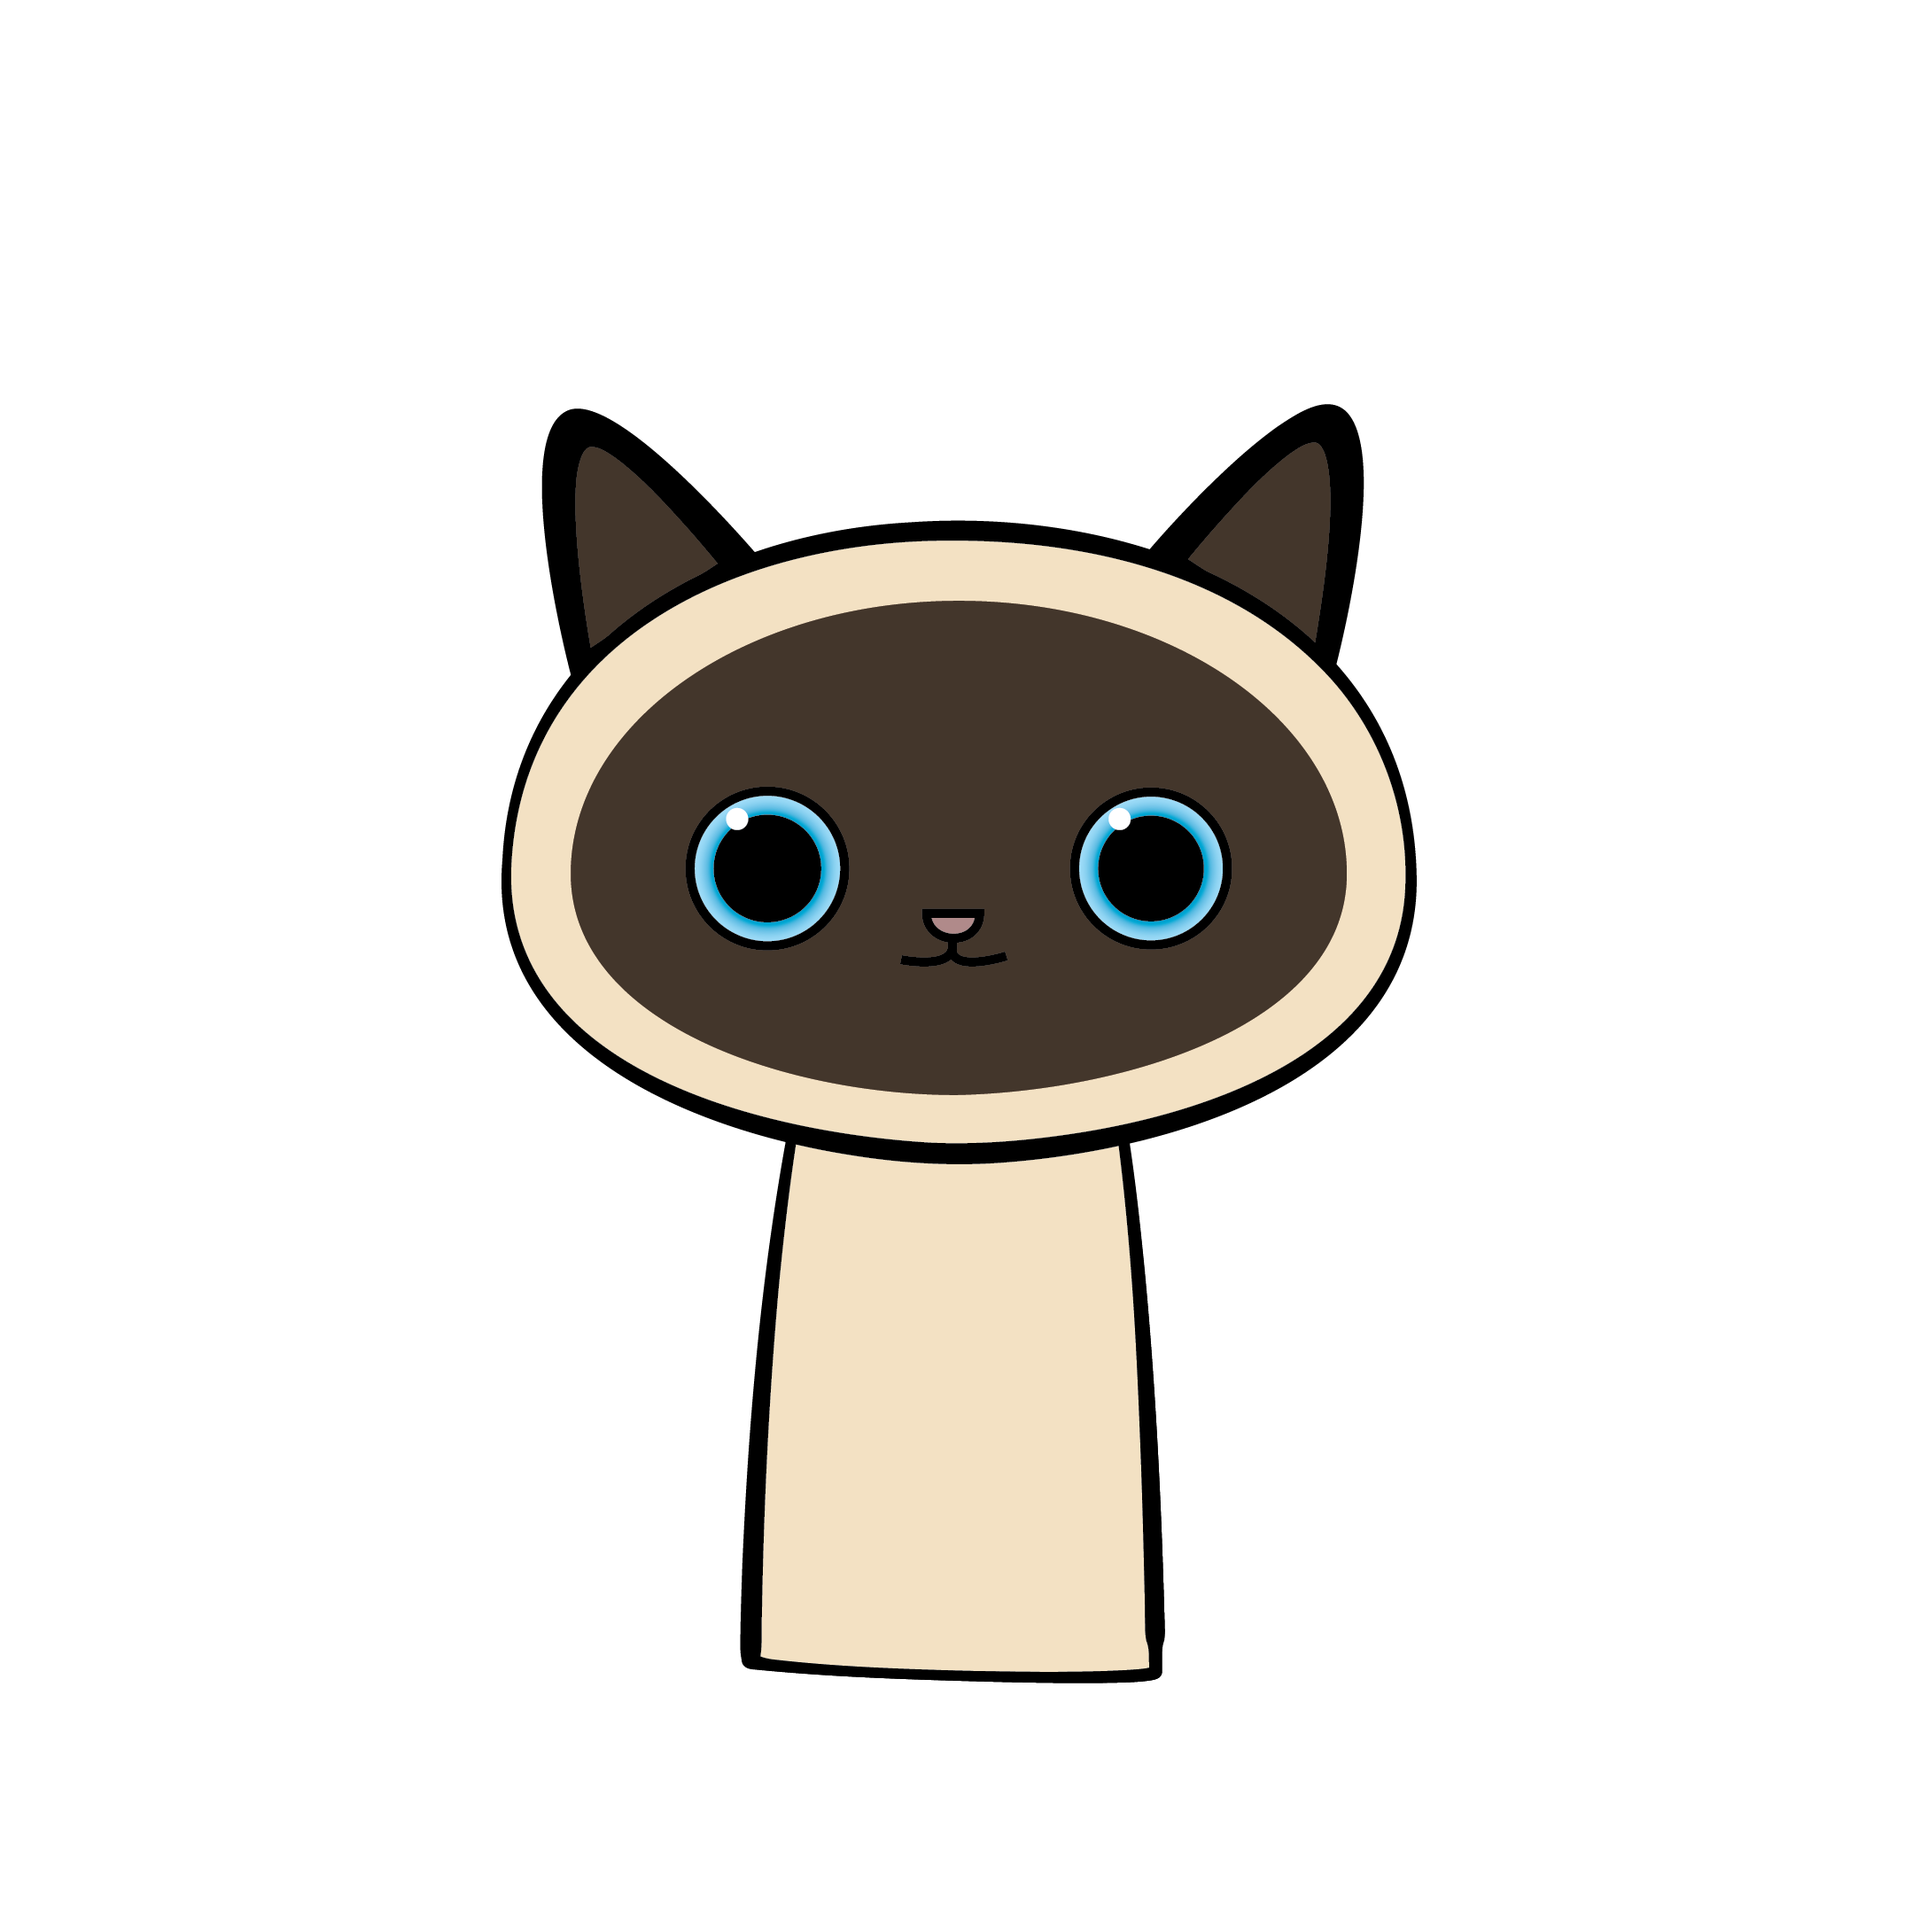
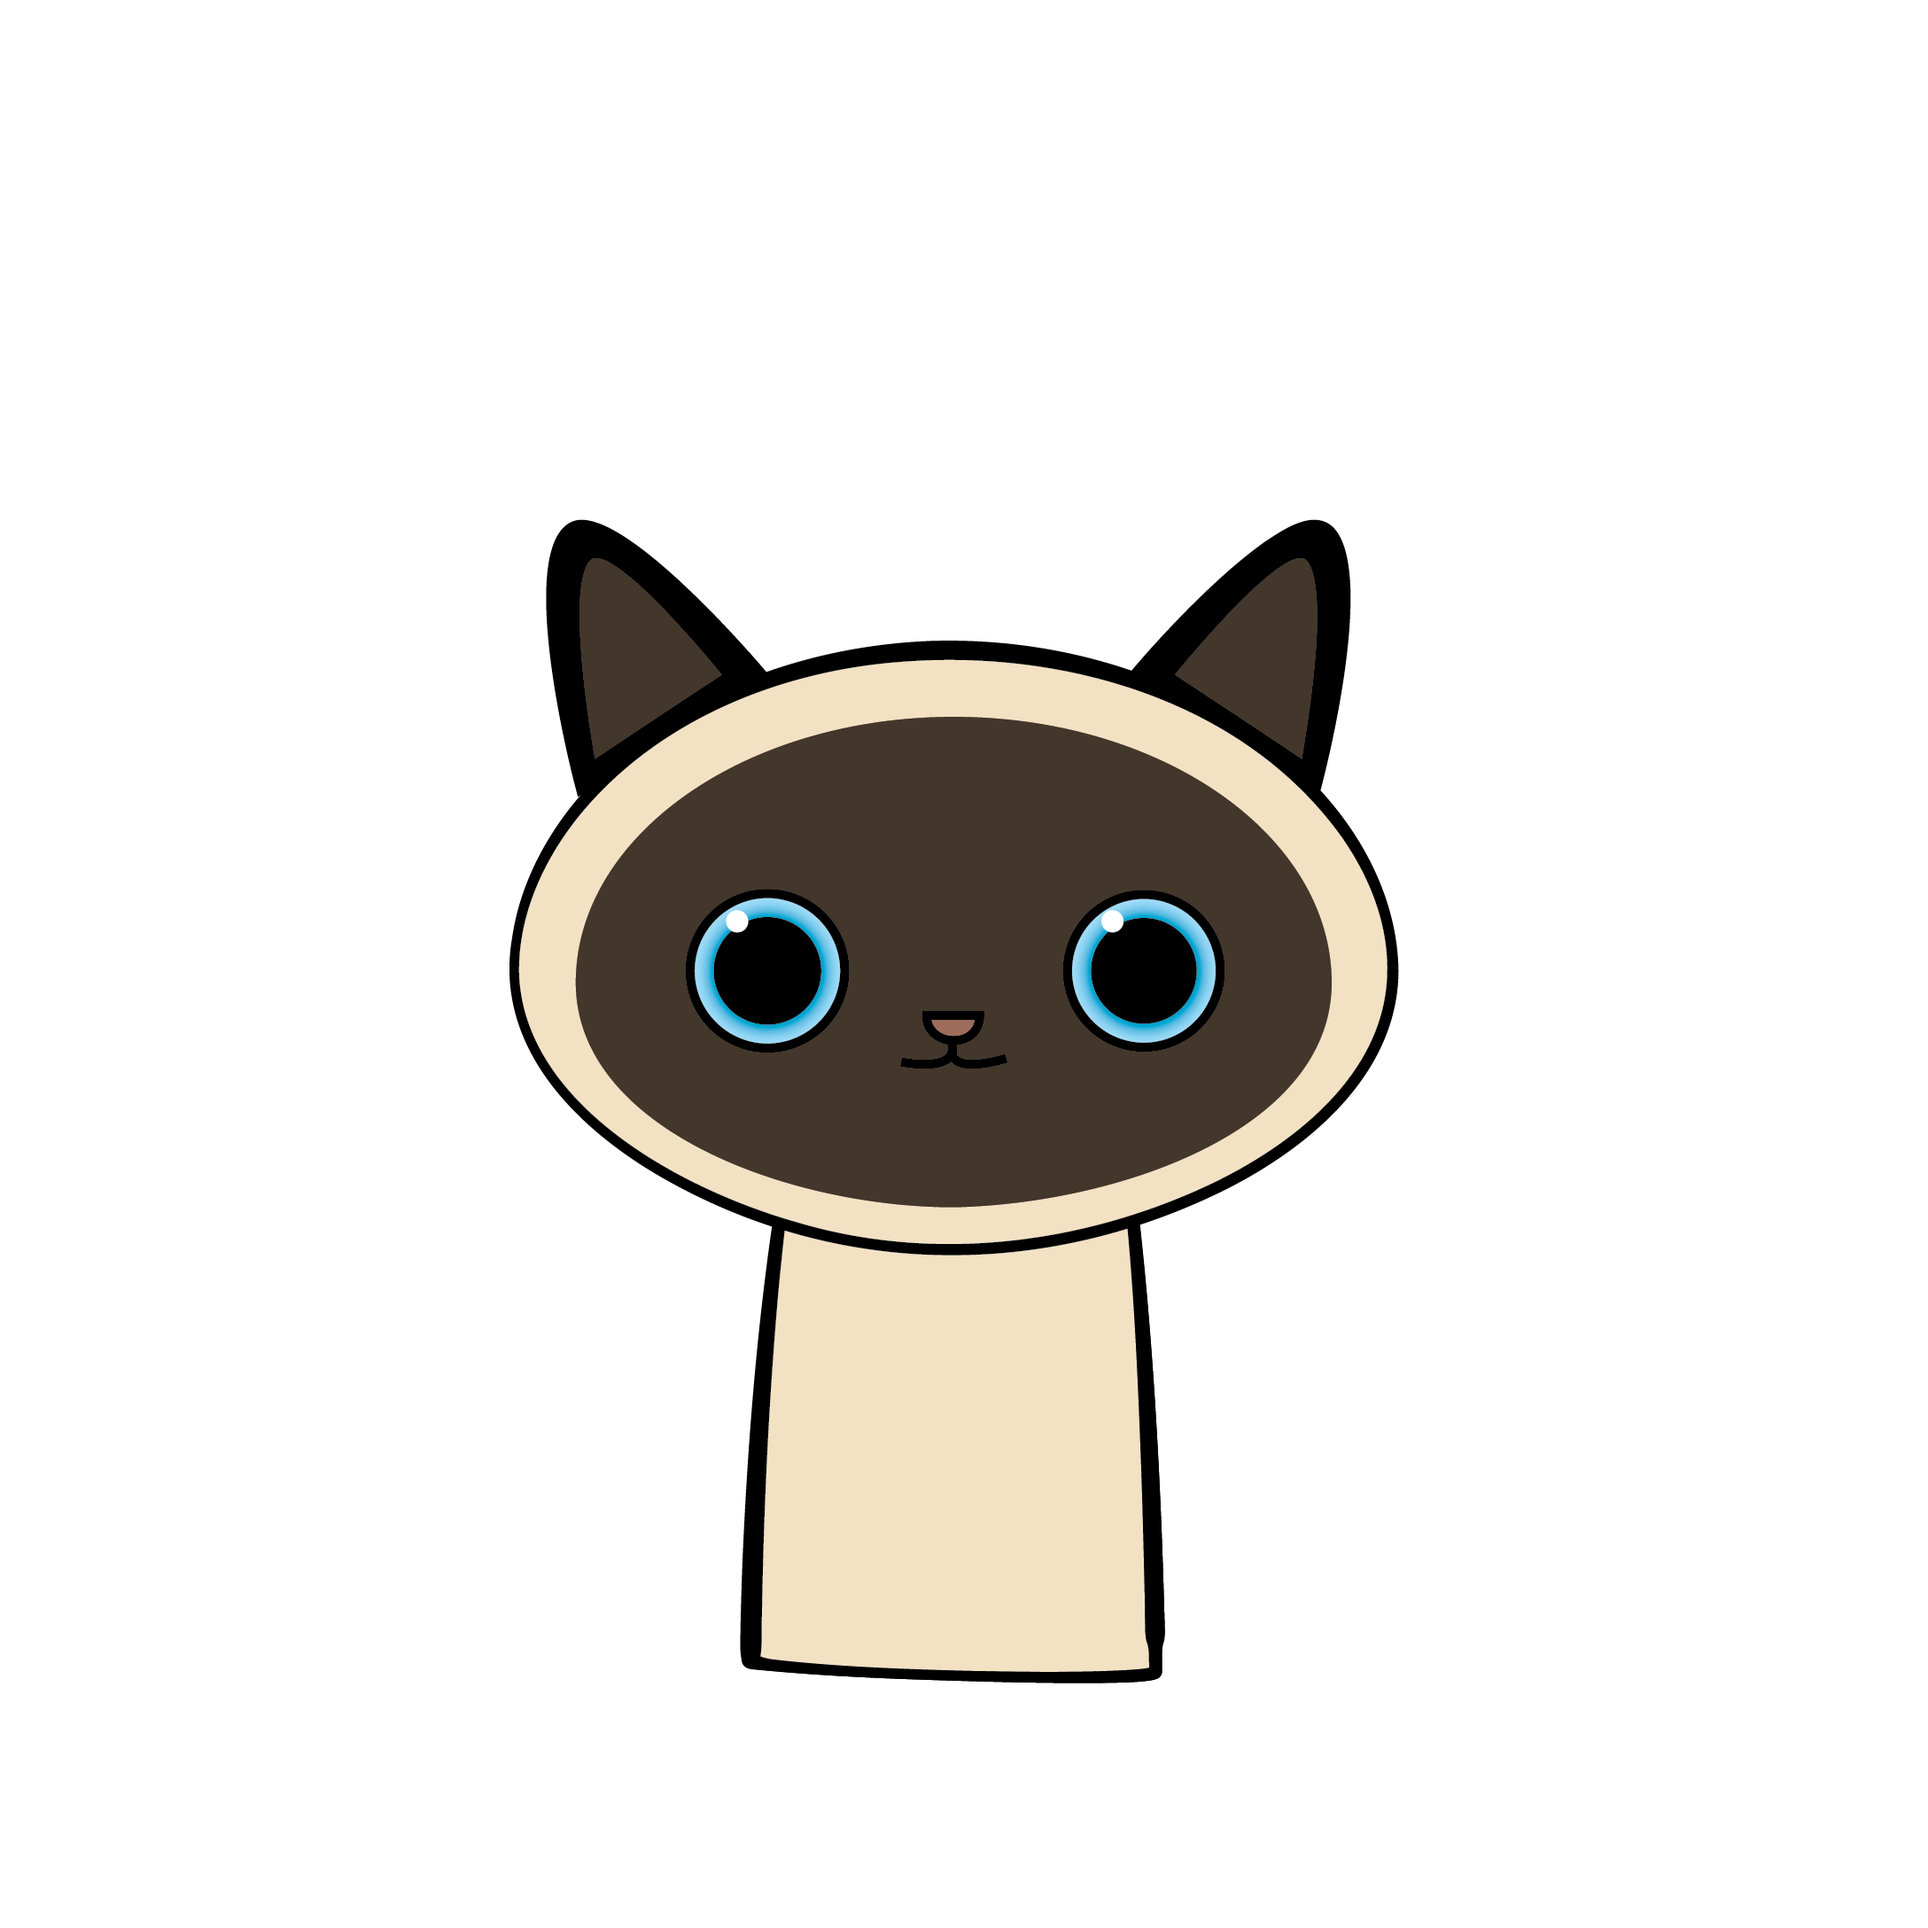
finished footer

Changed region(s): [[0.25, 0.1875, 0.75, 0.6562]]

diff --git a/src/components/Footer.js b/src/components/Footer.js
@@ -4,6 +4,16 @@ import WordFilters from "./WordFilters"
 
 const Footer = () => {
 
+    const submissions = [
+        ["ลาก่อน", "Thai",	"Ford"]
+    ]
+
+    const alreadyKnow = ["Au revoir", "Bonne journée", "拜拜",  "再見", "ลาก่อน"]
+
+    // const alreadyKnowOut = 
+
+    const randomSubmission = submissions[Math.floor(Math.random()*submissions.length)]
+
     const [formQuestion, setFormQuestion] = useState(1)
     
     const nextQuestionHandler = (e) => {
@@ -16,7 +26,6 @@ const Footer = () => {
             && 
             (
                 (!inputs[questionName]) || inputs[questionName].trim() === "" || WordFilters.includes(inputs[questionName]) )) {
-            console.log('good')
         }
         else if (formQuestion === 4 && nextQuestion === 0) {
             const scriptURL = 'https://script.google.com/macros/s/AKfycbxUbOuS5cJfcMj20XzZs_njg2pYXypEebiDa82XCixxnDevVG4/exec'
@@ -61,14 +70,16 @@ const Footer = () => {
 
     const question2 =
         <div hidden={formQuestion !== 2} >
-            <div id="calico" className="question-bubble2" style={{}}>So far, these are some of the ways I already know how to say "goodbye":<br></br>Au revoir, <br></br>Bonne Journée, <br></br>拜拜 <br></br>再見</div>
+            <div id="calico" className="question-bubble2" style={{}}>So far, these are some of the ways I already know how to say "goodbye":{alreadyKnow.map(bye => (
+                <p>{bye}</p>
+            ))}</div>
             <div id="calico" className="question-bubble">
                 <p>Cool, let me hear it.</p>
                 <form name="question2">
                     <input name="bye" type="text" placeHolder='("Goodbye" in another language)' value={inputs.bye || ""} onChange={handleChange} maxLength="20" />
                     <div className="question-container">
-                        <button name="bye" onClick={nextQuestionHandler} value="1">Back</button>
-                        <button name="bye" onClick={nextQuestionHandler} value="3">Next</button>
+                        <button type="button" name="bye" onClick={nextQuestionHandler} value="1">Back</button>
+                        <button type="submit" name="bye" onClick={nextQuestionHandler} value="3">Next</button>
                     </div>
                 </form>
             </div>
@@ -78,13 +89,13 @@ const Footer = () => {
     const question3 =
         <div hidden={formQuestion !== 3} >
             <div id="calico" className="question-bubble">
-                <p>Hmm..."{inputs.bye}"? <br></br>What <span className="highlight">language</span> is this?</p>
+                <p>Hmm...<span className="highlight">"{inputs.bye}"</span>? <br></br>What <span className="highlight">language</span> is this?</p>
                 <form name="question2">
 
                     <input name="language" type="text" placeHolder="(language)" value={inputs.language || ""} onChange={handleChange} maxLength="20" required/>
                     <div className="question-container">
-                        <button name="language" onClick={nextQuestionHandler} value="2">Back</button>
-                        <button name="language" onClick={nextQuestionHandler} value="4">Next</button>
+                        <button type="button" name="language" onClick={nextQuestionHandler} value="2">Back</button>
+                        <button type="submit" name="language" onClick={nextQuestionHandler} value="4">Next</button>
                     </div>
                 </form>
             </div>
@@ -93,21 +104,22 @@ const Footer = () => {
     const question4 =
     <div hidden={formQuestion !== 4} >
         <div id="calico-4" className="question-bubble">
-            <p style={{fontSize:"1em", lineHeight:"1.3em"}}>Okie Dokes, "<span className="highlight">{inputs.bye}</span>" is how you say "goodbye" in <span className="highlight">{inputs.language}</span> .<br></br>I'll share this with Eric. And <span className="highlight">who</span> is it that I should tell him taught me this?</p>
+            <p style={{fontSize:"1em", lineHeight:"1.3em"}}>Okay, "<span className="highlight">{inputs.bye}</span>" is how you say "goodbye" in <span className="highlight">{inputs.language}</span> .<br></br>I'll share this with Eric. And <span className="highlight">who</span> is it that I should tell him taught me this?</p>
             <form name="question2">
 
                 <input name="name" type="text" placeHolder="(First Name)" value={inputs.name || ''} onChange={handleChange} maxLength="20" />
                 <div className="question-container">
-                    <button name="name" onClick={nextQuestionHandler} value="3">Back</button>
-                    <button name="name" onClick={nextQuestionHandler} value="0">Next</button>
+                    <button type="button" name="name" onClick={nextQuestionHandler} value="3">Back</button>
+                    <button type="submit" name="name" onClick={nextQuestionHandler} value="0">Next</button>
                 </div>
             </form>
         </div>
     </div>
 
     const question0 =
-        <div hidden={formQuestion !== 0}>
-            <p id="calico" className="bye-bubble">Okie Dokes!<br></br> See Ya!</p>
+        <div id="calico" className="bye-bubble" hidden={formQuestion !== 0} style={{width: "200px"}}>
+            <p style={{lineHeight:".7em", marginBottom:"-.1em"}}> <span style={{lineHeight: "1.5em"}}>Okie Dokes!</span><br></br>{randomSubmission[0]}!<br></br><br></br></p>
+            <p id="calico" style={{fontSize:".5em", lineHeight:"120%"}}><span >That's how to say "bye" in {randomSubmission[1]}. </span>{randomSubmission[2]} taught me that one.</p>
         </div>
 
 

diff --git a/src/App.css b/src/App.css
@@ -152,7 +152,7 @@ h2.line-color {
   flex-direction: row;
   flex-wrap: wrap;
   justify-content: flex-end;
-  z-index: 3;
+  z-index: 10;
 }
 
 .bar-container {
@@ -632,11 +632,11 @@ h2.line-color {
   }
 
   30% {
-    transform: translate(0, -40em);
+    transform: translate(0, -45em);
   }
 
   40% {
-    transform: translate(0, -40em);
+    transform: translate(0, -45em);
   }
 
   55% {
@@ -648,7 +648,7 @@ h2.line-color {
   }
 
   100% {
-    transform: translate(0, -51em);
+    transform: translate(0, -53em);
   }
 }
 
@@ -1442,7 +1442,7 @@ a.ref-text {
 
 #siamese.bye-container {
   left: 60%;
-  bottom: -360px;
+  bottom: -340px;
   z-index: 2;
 }
 
@@ -1561,9 +1561,9 @@ a.ref-text {
   border-radius: 11px;
   position: absolute;
   color: #bcfffc;
-  text-shadow: 20px 20px #31a8a2;
+  text-shadow: 11px 11px #31a8a2;
   background-color: #bcfffc;
-  box-shadow: 20px 20px #31a8a2;
+  box-shadow: 15px 15px #31a8a2;
   animation: fadeIn 1s 1 forwards ease-in-out, float-2a 5s ease-in-out infinite;
 }
 
@@ -1590,7 +1590,7 @@ a.ref-text {
     bottom: -40px;
   }
   #calico-4.question-bubble {
-    top: -300px;
+    top: -250px;
   }
 }
 
@@ -1710,7 +1710,7 @@ span.highlight:after {
   animation: fadeIn .5s 3.5s 1 forwards ease-in, float 5s 1s ease-in-out infinite;
   text-align: left;
   line-height: 1.1em;
-  white-space: pre-wrap;
+  /* white-space: pre-wrap; */
   border-radius: 15px;
   position: absolute;
   z-index: 2;
@@ -1740,6 +1740,7 @@ span.highlight:after {
 #calico.bye-bubble {
   font-family: "Pacifico", "cursvie";
   right: -30px;
+  top: -110px;
   font-size: 2em;
   padding: 20px;
   color: #3ce7df;
@@ -1750,10 +1751,15 @@ span.highlight:after {
 
 #calico.bye-bubble:after {
   color: #bcfffc;
-  text-shadow: 20px 20px #31a8a2;
+  text-shadow: 11px 11px #31a8a2;
   background-color: #bcfffc;
-  box-shadow: 20px 20px #31a8a2;
+  box-shadow: 15px 15px #31a8a2;
   animation: float-2a 5s ease-in-out infinite;
+}
+
+#calico p {
+  font-family: "Pacifico", "cursvie";
+  color: #3ce7df;
 }
 
 
@@ -1773,10 +1779,10 @@ span.highlight:after {
 
 #orange.bye-bubble:after {
   content: ".";
-  text-shadow: 22px 22px #5a7050;
+  text-shadow: 11px 11px #5a7050;
   color: #e1fdd4;
   background-color: #e1fdd4;
-  box-shadow: 20px 20px #5a7050;
+  box-shadow: 15px 15px #5a7050;
 }
 
 #siamese.bye-bubble {
@@ -1797,9 +1803,9 @@ span.highlight:after {
   color: #f5b7ff;
   content: ".";
   font-size: 55px;
-  text-shadow: 22px 22px #8c4d96;
+  text-shadow: 11px 11px #8c4d96;
   background-color: #f5b7ff;
-  box-shadow: 20px 20px #8c4d96;
+  box-shadow: 15px 15px #8c4d96;
   animation: float-2a 5s ease-in-out infinite;
   
 }
@@ -1821,9 +1827,9 @@ span.highlight:after {
 #black.bye-bubble:after {
   color: #fdbeb9;
   content: ".";
-  text-shadow: 22px 22px #a73c34;
+  text-shadow: 11px 11px #a73c34;
   background-color: #fdbeb9;
-  box-shadow: 20px 20px #a73c34;
+  box-shadow: 15px 15px #a73c34;
 }
 
 #tabby.bye-bubble {
@@ -1845,9 +1851,9 @@ span.highlight:after {
   text-align: left;
   color: #c8edff;
   content: ".";
-  text-shadow: 22px 22px #2f6079;
+  text-shadow: 11px 11px #2f6079;
   background-color: #c8edff;
-  box-shadow: 20px 20px #2f6079;
+  box-shadow: 15px 15px #2f6079;
 }
 
 #white.bye-bubble {
@@ -1866,9 +1872,9 @@ span.highlight:after {
   color: #dbcbff;
   content: ".";
   font-size: 55px;
-  text-shadow: 22px 22px #6b5c8a;
+  text-shadow: 11px 11px #6b5c8a;
   background-color: #dbcbff;
-  box-shadow: 20px 20px #6b5c8a;
+  box-shadow: 15px 15px #6b5c8a;
   /* animation: float-2a 5s ease-in-out infinite; */
 }
 

diff --git a/src/components/WordFilters.js b/src/components/WordFilters.js
@@ -3,17 +3,14 @@ const WordFilters = ["pizza"]
 export default WordFilters
 
 // https://stackoverflow.com/a/3561711/240443
-const reEscape = s => s.replace(/[-\/\\^$*+?.()|[\]{}]/g, '\\$&');
+const reEscape = s => s.replace(/[-\/\\^$*+?.()|[\]{}]/, '\\$&');
 
 // needs to be done only once
-const badWords = ["bad","",""];
-const badWordsRE = new RegExp(badWords.map(reEscape).join('|'));
+const badWords = ["shity","shitty"];
+const badWordsRE = new RegExp(badWords.map(reEscape).join('|'), 'g');
 
 // testing is quick and easy
-console.log("baddy bad baddered.".match(badWordsRE)); // "Mr.Burns"
-console.log("Nothing objectionable".match(badWordsRE)); 
-
-let badwords = ["pickle", "bad"]
-    let description = "badpickle"
-    let isInclude = badwords.some(word => description.includes(word));
-    console.log(isInclude)
+console.log(badWordsRE)
+console.log(badWordsRE.test('shit shitt adjflaj shitty'))
+// console.log("baddy bad baddered.".match(badWordsRE));
+// console.log("Nothing objectionable".search(badWordsRE)); 

diff --git a/src/components/Gallery.js b/src/components/Gallery.js
@@ -45,7 +45,7 @@ const Gallery = () => {
         },
         {
             id: uuidv4(),
-            title: <p>Place de la Basoche<br></br>Lyon, France 🇫🇷</p>,
+            title: <p>Place de la Basoche<br></br>(Basoche Square)<br></br>Lyon, France 🇫🇷</p>,
             height: "auto",
             width: "300px",
             location: "",
